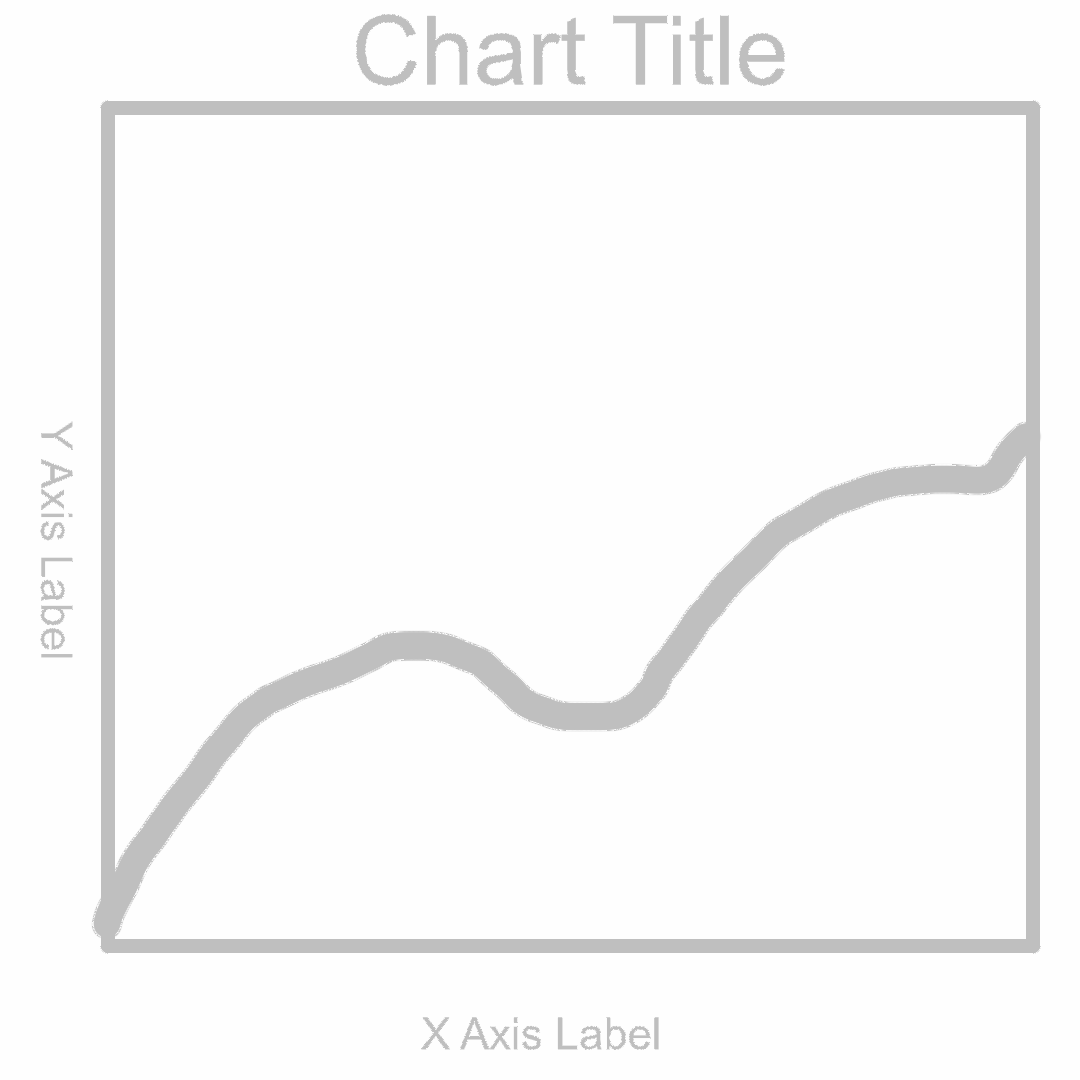
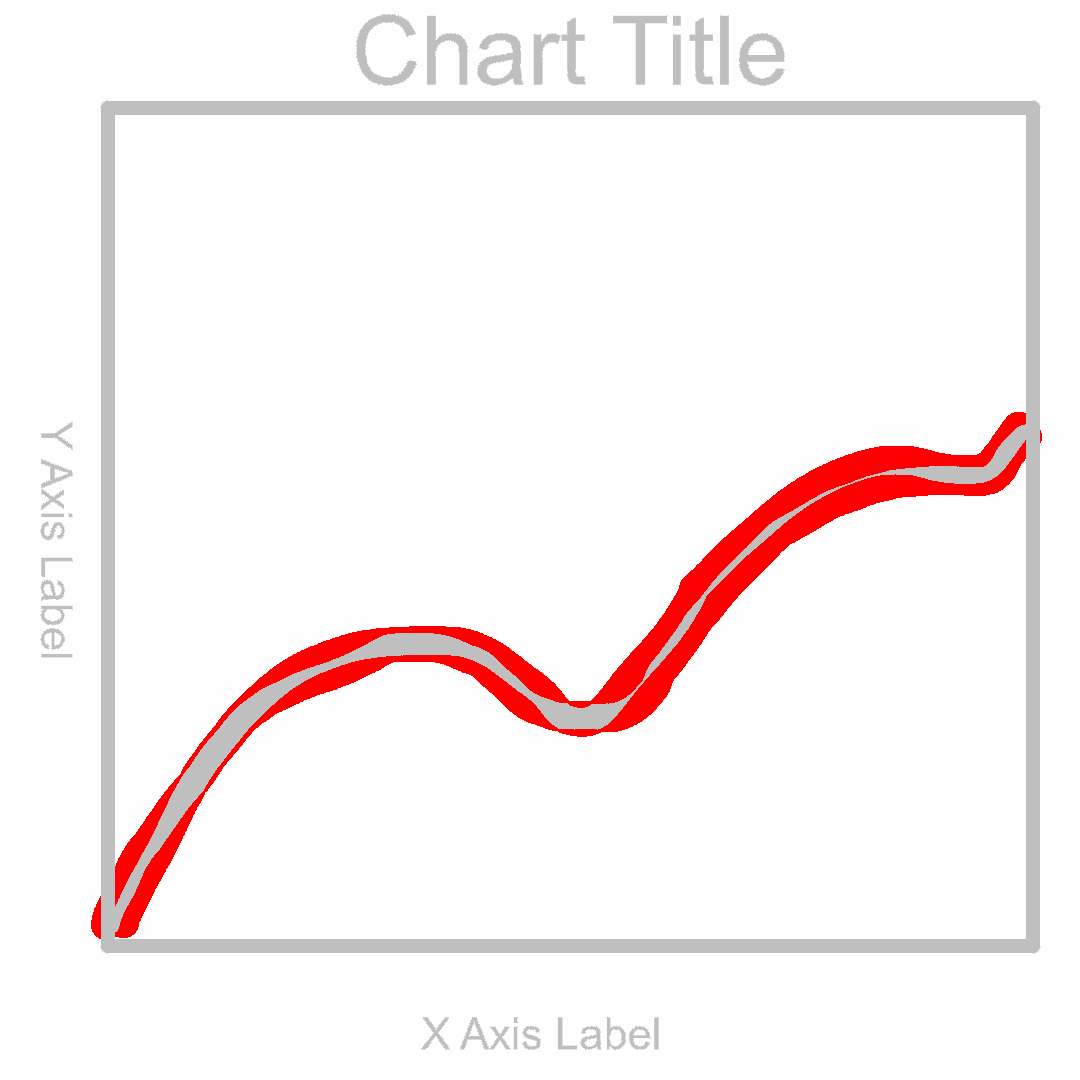
fix the example

Changed region(s): [[0.0611, 0.3667, 0.9472, 0.8861]]

diff --git a/pycode.py b/pycode.py
@@ -1,13 +1,13 @@
-import library
+import imagediff
 
 # with open("a.png", "rb") as a:
 #     with open("b.png", "rb") as b:
 #         difference = library.compare(a.read(), b.read())
 #         print(difference)
 
-with open("data_chart_other.png", 'rb') as a:
+with open("data_chart.png", 'rb') as a:
     with open("data_chart_other.png", 'rb') as b:
-        difference = library.compare(a.read(), b.read())
+        difference = imagediff.compare(a.read(), b.read())
         print(difference)
 
 
